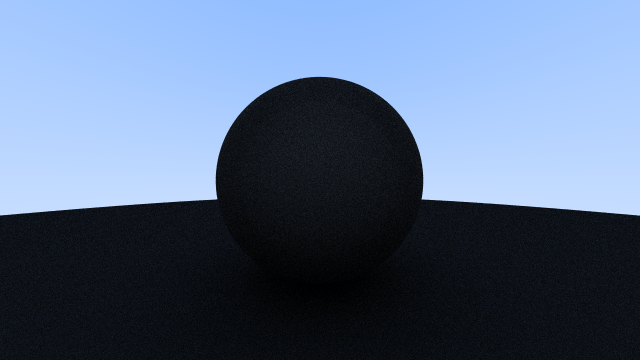
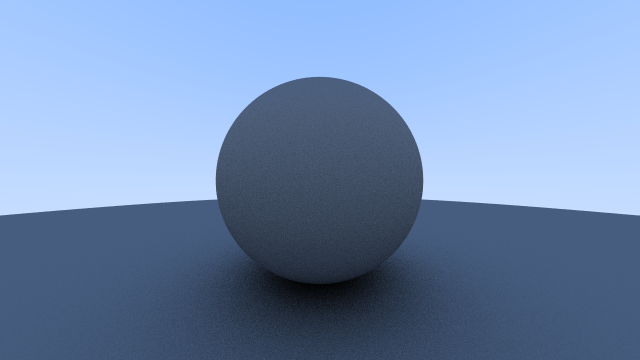
Fix ray hitting its source

diff --git a/src/object.rs b/src/object.rs
@@ -48,8 +48,8 @@ impl Hittable for Sphere {
 
         // find the smaller root in the range
         let root = match ((-half_b - sqrtd) / a, (-half_b + sqrtd) / a) {
-            (t, _) if t >= t_min && t <= t_max => t,
-            (_, t) if t >= t_min && t <= t_max => t,
+            (t, _) if t > t_min && t < t_max => t,
+            (_, t) if t > t_min && t < t_max => t,
             _ => return None,
         };
 

diff --git a/src/ray.rs b/src/ray.rs
@@ -28,7 +28,7 @@ impl Ray {
             return Color::default();
         }
 
-        if let Some(rec) = world.hit(self, 0.0, INF) {
+        if let Some(rec) = world.hit(self, 0.001, INF) {
             let target = rec.p() + rec.normal() + Vec3::random_in_unit_sphere();
             let child_ray = Ray::new(rec.p(), target - rec.p());
             return 0.5 * child_ray.color(&world, depth - 1);
